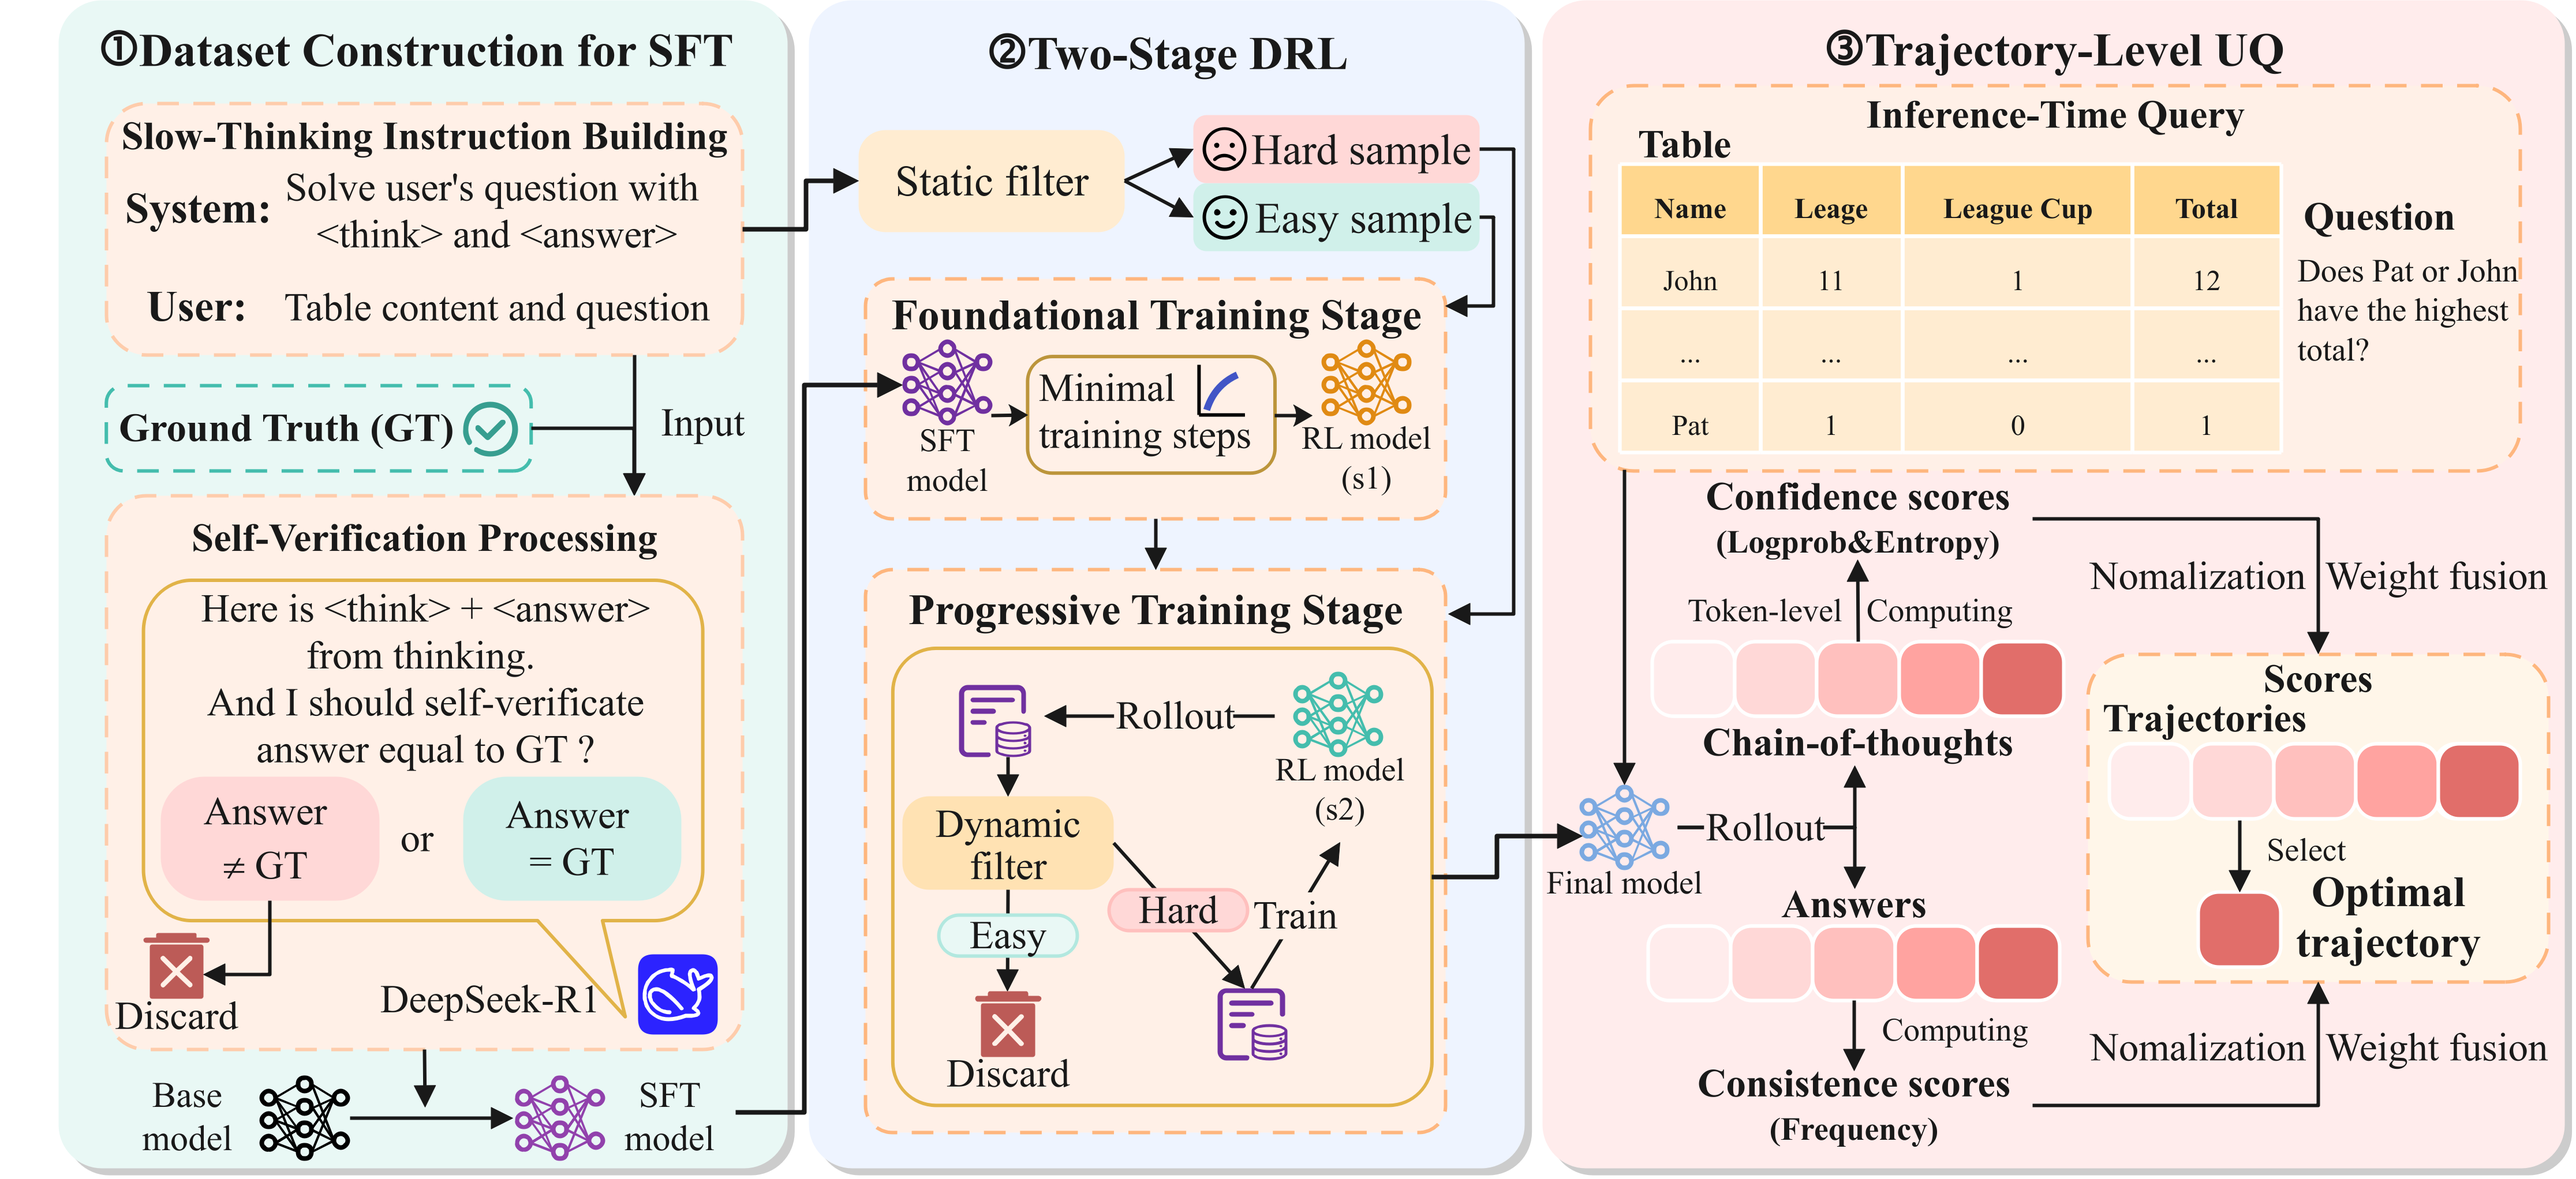
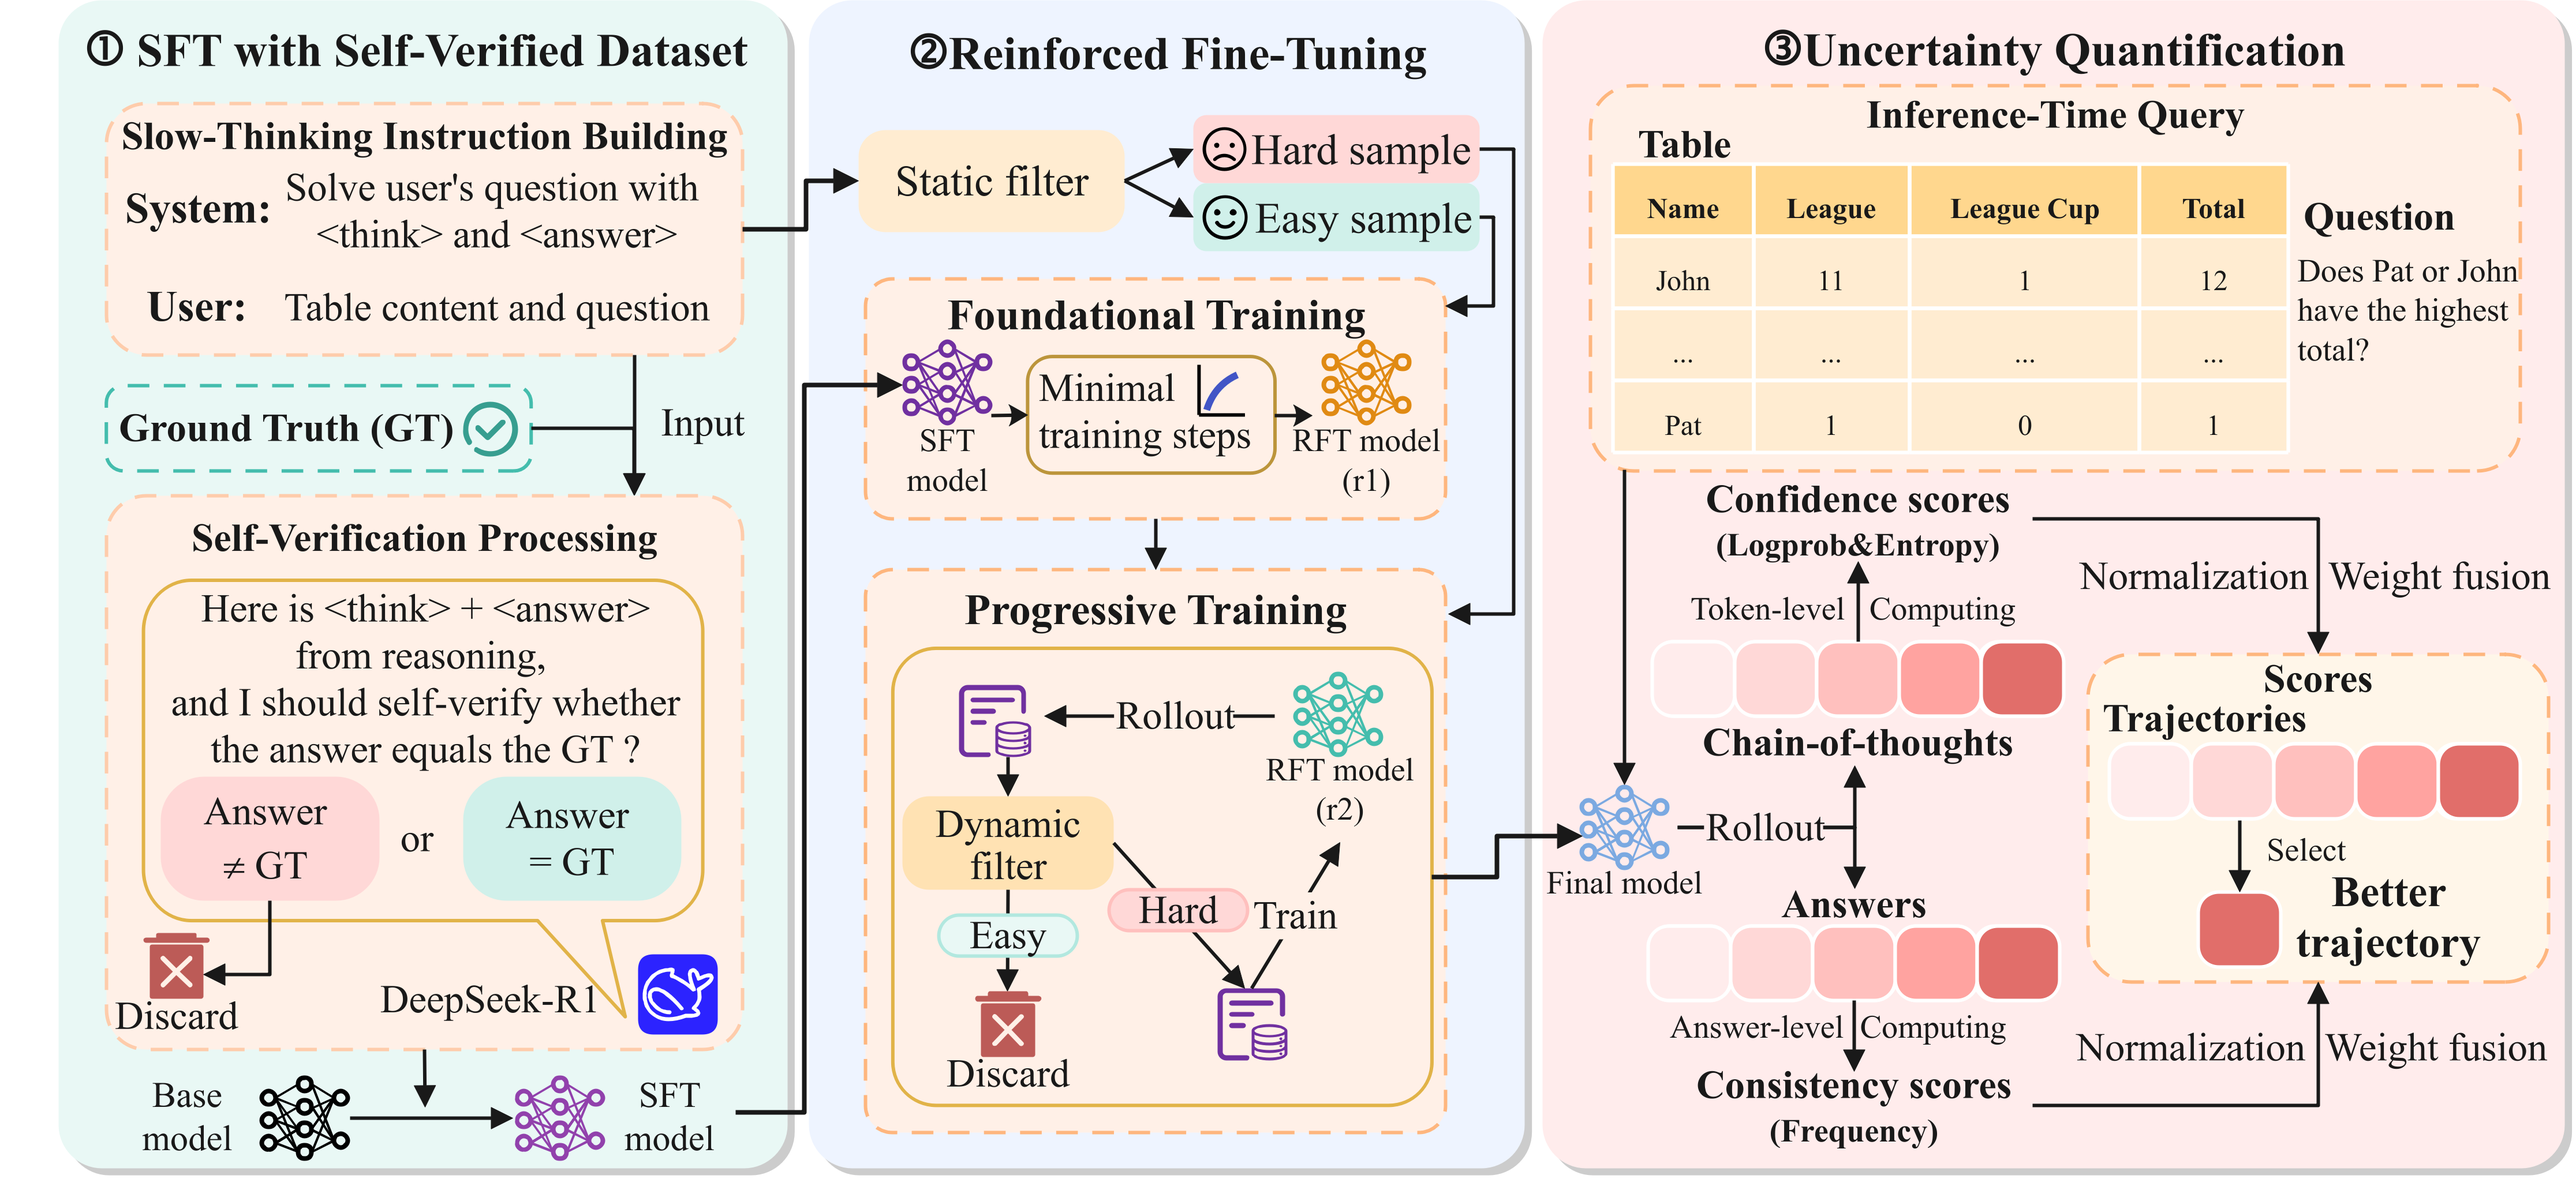
docs: add Chinese README and update project description
- Add Chinese translation of README (readme_cn.md)
- Add language toggle links between English and Chinese versions
- Update project title to official paper name
- Revise abstract and key features for clarity
- Rename training stages for consistency (Stage 0→1, Stage 1→2)
- Update citation note regarding Google Scholar title discrepancy
- Update logo and framework images

diff --git a/readme_cn.md b/readme_cn.md
@@ -1,0 +1,192 @@
+[English](readme.md) | [中文](readme_cn.md)
+
+<div align="center">
+
+<img src="STaR.png" alt="STaR Logo" width="420"/>
+
+# ⭐ STaR: Towards Effective and Stable Table Reasoning via Slow-Thinking Large Language Models
+
+[![arXiv](https://img.shields.io/badge/arXiv-2511.11233-b31b1b.svg?style=flat-square&logo=arxiv)](https://arxiv.org/abs/2511.11233)
+[![Hugging Face Datasets](https://img.shields.io/badge/🤗%20Datasets-STaR--Datasets-ff8c00?style=flat-square)](https://huggingface.co/datasets/zhjai/STaR-Datasets)
+[![License](https://img.shields.io/badge/License-MIT-green.svg?style=flat-square)](LICENSE)
+
+**一种用于有效且稳定表格推理的慢思考模型**
+
+[📄 论文](https://arxiv.org/abs/2511.11233) • [🤗 数据集](https://huggingface.co/datasets/zhjai/STaR-Datasets) • [🏠 GitHub](https://github.com/zhjai/STaR)
+
+</div>
+
+---
+
+## 📌 概述
+
+<div align="center">
+<img src="star-framework.png" alt="STaR Framework" width="90%"/>
+</div>
+
+**STaR**（Slow-Thinking Table Reasoning，慢思考表格推理）是一种新颖的慢思考模型，能够实现有效且稳定的表格推理。它通过两阶段训练框架（SFT + RFT）实现有效的多步推理，并通过轨迹级不确定性量化提高推理稳定性。
+
+### ✨ 核心特性
+
+- 🧠 **有效的多步推理**：两阶段训练框架，包含 SFT 预热和强化微调（RFT）
+- 📈 **难度感知强化学习**：渐进式处理复杂推理的强化学习机制
+- 🎯 **稳定推理**：融合 token 级置信度和答案一致性的轨迹级不确定性量化
+- 🚀 **强泛化能力**：领域内最先进性能，领域外优秀泛化表现
+
+---
+
+## 📋 摘要
+
+Table reasoning with large language models (LLMs) plays a critical role in building intelligent systems capable of understanding and analyzing tabular data. Despite recent progress, existing methods still face key limitations: their reasoning processes lacks depth and explicit multi-step reasoning, often relying solely on implicit language model understanding. In addition, their reasoning processes suffer from instability, primarily caused by model uncertainty.
+
+In this work, we propose **STaR**, a novel slow-thinking model that can achieve effective and stable table reasoning. To enable effective multi-step reasoning, we design a **two-stage training framework** consisting of supervised fine-tuning (SFT) warm-up followed by reinforced fine-tuning (RFT). Specifically, in the SFT stage, we construct a high-quality dataset through automatic self-verification. In the RFT stage, we introduce a **difficulty-aware reinforcement learning mechanism** to further enhance reasoning capabilities. Furthermore, to improve reasoning stability, we introduce **trajectory-level uncertainty quantification**, which fuses token-level confidence with answer-level consistency, enabling the selection of better reasoning trajectories. Extensive experiments demonstrate that STaR-8B achieves state-of-the-art performance on in-domain benchmarks and exhibits strong generalization to out-of-domain datasets, highlighting its potential for enhancing both effectiveness and stability in table reasoning.
+
+---
+
+## 📁 项目结构
+
+```
+STaR/
+├── 📂 data/                    # 数据集
+│   ├── STaR-sft.parquet        # SFT 训练数据
+│   ├── STaR-train-easy.parquet # 简单训练样本
+│   ├── STaR-train-hard.parquet # 困难训练样本
+│   ├── STaR-train-all.parquet  # 所有训练样本
+│   ├── STaR-eval.parquet       # 评估数据
+│   └── STaR-test.parquet       # 测试数据
+├── 📂 model/                   # 预训练模型
+├── 📂 sh/                      # 训练和评估脚本
+├── 📂 verl/                    # VERL 框架
+├── 📂 checkpoints/             # 模型检查点
+├── 📄 reward.py                # 奖励函数
+├── 📄 eval-by-trajectory.py    # 评估脚本
+└── 📄 requirements.txt         # 依赖项
+```
+
+---
+
+## 🛠 安装
+
+> **环境要求**：Python 3.10+ 和 CUDA GPU
+
+```bash
+# 1⃣ 克隆仓库
+git clone https://github.com/zhjai/STaR.git
+cd STaR
+
+# 2⃣ 安装 Python 依赖
+pip install -r requirements.txt
+
+# 3⃣ 以可编辑模式安装 verl
+cd verl
+pip install -e .
+cd ..
+```
+
+---
+
+## 📦 数据和模型
+
+### 🤗 数据集
+
+从 Hugging Face 下载数据集并放置到 `data/` 文件夹：
+
+| 数据集 | 描述 | 链接 |
+|---------|-------------|------|
+| STaR-Datasets | 完整训练和评估数据 | [![Hugging Face](https://img.shields.io/badge/🤗-Datasets-ff8c00)](https://huggingface.co/datasets/zhjai/STaR-Datasets) |
+
+### 🤖 基础模型
+
+下载基础模型并放置到 `model/` 文件夹：
+
+| 模型 | 参数量 | 链接 |
+|-------|------------|------|
+| Qwen3-0.6B | 0.6B | [![Hugging Face](https://img.shields.io/badge/🤗-Qwen3--0.6B-ff8c00)](https://huggingface.co/Qwen/Qwen3-0.6B) |
+| Qwen3-8B | 8B | [![Hugging Face](https://img.shields.io/badge/🤗-Qwen3--8B-ff8c00)](https://huggingface.co/Qwen/Qwen3-8B) |
+
+### 🏆 训练好的检查点
+
+我们训练好的模型权重可在 Hugging Face 获取：
+
+| 模型 | 参数量 | 链接 |
+|-------|------------|------|
+| STaR-0.6B | 0.6B | [![Hugging Face](https://img.shields.io/badge/🤗-STaR--0.6B-ff8c00)](https://huggingface.co/zhjai/STaR-0.6B) |
+| STaR-8B | 8B | [![Hugging Face](https://img.shields.io/badge/🤗-STaR--8B-ff8c00)](https://huggingface.co/zhjai/STaR-8B) |
+
+---
+
+## 🚀 训练
+
+训练脚本位于 `sh/` 目录。请根据需要调整路径和超参数。
+
+### 📚 阶段 1：监督微调（SFT）
+
+```bash
+# Qwen3-0.6B
+bash sh/STaR-sft-qwen3-0.6b.sh
+
+# Qwen3-8B
+bash sh/STaR-sft-qwen3-8b.sh
+```
+
+### 🎯 阶段 2：强化微调（RFT）- 基础训练
+
+```bash
+# Qwen3-0.6B
+bash sh/STaR-sft-stage1-qwen3-0.6b.sh
+
+# Qwen3-8B
+bash sh/STaR-sft-stage1-qwen3-8b.sh
+```
+
+### 🔥 阶段 2：强化微调（RFT）- 渐进训练
+
+```bash
+# Qwen3-0.6B
+bash sh/STaR-sft-stage1-stage2-qwen3-0.6b.sh
+
+# Qwen3-8B
+bash sh/STaR-sft-stage1-stage2-qwen3-8b.sh
+```
+
+---
+
+## 📊 评估
+
+### 1⃣ 生成轨迹
+
+```bash
+bash sh/STaR-eval.sh
+```
+
+### 2⃣ 计算指标
+
+```bash
+python eval-by-trajectory.py
+```
+
+---
+
+## 📖 引用
+
+如果您觉得这项工作有用，请引用我们的论文：
+
+> **注意：** 谷歌学术上的引用可能仍显示旧标题。正确标题为：*STaR: Towards Effective and Stable Table Reasoning via Slow-Thinking Large Language Models*
+
+---
+
+## 🙏 致谢
+
+- 本工作基于优秀的 [**VERL**](https://github.com/volcengine/verl) 框架
+- 基础模型来自阿里巴巴 [**Qwen**](https://github.com/QwenLM/Qwen) 团队
+- 感谢开源社区提供的工具和数据集
+
+---
+
+<div align="center">
+
+**⭐ 如果觉得有帮助，请给个 Star！⭐**
+
+为研究社区用 ❤ 打造
+
+</div>

diff --git a/readme.md b/readme.md
@@ -1,14 +1,16 @@
+[English](readme.md) | [中文](readme_cn.md)
+
 <div align="center">
 
 <img src="STaR.png" alt="STaR Logo" width="420"/>
 
-# ⭐ STaR: Slow-Thinking for Table Reasoning
+# ⭐ STaR: Towards Effective and Stable Table Reasoning via Slow-Thinking Large Language Models
 
 [![arXiv](https://img.shields.io/badge/arXiv-2511.11233-b31b1b.svg?style=flat-square&logo=arxiv)](https://arxiv.org/abs/2511.11233)
 [![Hugging Face Datasets](https://img.shields.io/badge/🤗%20Datasets-STaR--Datasets-ff8c00?style=flat-square)](https://huggingface.co/datasets/zhjai/STaR-Datasets)
 [![License](https://img.shields.io/badge/License-MIT-green.svg?style=flat-square)](LICENSE)
 
-**A Cognitive Framework for Table Reasoning with LLMs**
+**A Novel Slow-Thinking Model for Effective and Stable Table Reasoning**
 
 [📄 Paper](https://arxiv.org/abs/2511.11233) • [🤗 Datasets](https://huggingface.co/datasets/zhjai/STaR-Datasets) • [🏠 GitHub](https://github.com/zhjai/STaR)
 
@@ -22,22 +24,22 @@
 <img src="star-framework.png" alt="STaR Framework" width="90%"/>
 </div>
 
-**STaR** (Slow-Thinking for Table Reasoning) is a novel framework that equips LLMs with slow-thinking capabilities for cognitive table reasoning by explicitly modeling step-by-step thinking and uncertainty-aware inference.
+**STaR** (Slow-Thinking Table Reasoning) is a novel slow-thinking model that can achieve effective and stable table reasoning. It enables effective multi-step reasoning through a two-stage training framework (SFT + RFT) and improves reasoning stability via trajectory-level uncertainty quantification.
 
 ### ✨ Key Features
 
-- 🧠 **Cognitive Reasoning**: Mimics human-like iterative and reflective thought processes
-- 📈 **Two-Stage DRL**: Difficulty-aware reinforcement learning from simple to complex queries
-- 🎯 **Uncertainty Quantification**: Trajectory-level confidence for reliable reasoning paths
-- 🚀 **Strong Generalization**: Excellent out-of-domain performance
+- 🧠 **Effective Multi-Step Reasoning**: Two-stage training framework with SFT warm-up and reinforced fine-tuning (RFT)
+- 📈 **Difficulty-Aware RL**: Reinforcement learning mechanism that progressively handles complex reasoning
+- 🎯 **Stable Reasoning**: Trajectory-level uncertainty quantification fusing token-level confidence with answer-level consistency
+- 🚀 **Strong Generalization**: State-of-the-art in-domain performance and excellent out-of-domain generalization
 
 ---
 
 ## 📋 Abstract
 
-Table reasoning with large language models (LLMs) is a fundamental path toward building intelligent systems that can understand and analyze structured data. While recent progress has shown promising results, they still suffer from two key limitations: (i) the reasoning processes lack the depth and iterative refinement characteristic of human cognition; and (ii) the reasoning processes exhibit instability, which compromises their reliability in downstream applications. 
+Table reasoning with large language models (LLMs) plays a critical role in building intelligent systems capable of understanding and analyzing tabular data. Despite recent progress, existing methods still face key limitations: their reasoning processes lacks depth and explicit multi-step reasoning, often relying solely on implicit language model understanding. In addition, their reasoning processes suffer from instability, primarily caused by model uncertainty.
 
-In this work, we present **STaR**, a new framework achieving cognitive table reasoning, in which LLMs are equipped with slow-thinking capabilities by explicitly modeling step-by-step thinking and uncertainty-aware inference. During training, STaR employs **two-stage difficulty-aware reinforcement learning (DRL)**, progressively learning from simple to complex queries under a composite reward. During inference, STaR performs **trajectory-level uncertainty quantification** by integrating token-level confidence and answer consistency, enabling selection of more credible reasoning paths.
+In this work, we propose **STaR**, a novel slow-thinking model that can achieve effective and stable table reasoning. To enable effective multi-step reasoning, we design a **two-stage training framework** consisting of supervised fine-tuning (SFT) warm-up followed by reinforced fine-tuning (RFT). Specifically, in the SFT stage, we construct a high-quality dataset through automatic self-verification. In the RFT stage, we introduce a **difficulty-aware reinforcement learning mechanism** to further enhance reasoning capabilities. Furthermore, to improve reasoning stability, we introduce **trajectory-level uncertainty quantification**, which fuses token-level confidence with answer-level consistency, enabling the selection of better reasoning trajectories. Extensive experiments demonstrate that STaR-8B achieves state-of-the-art performance on in-domain benchmarks and exhibits strong generalization to out-of-domain datasets, highlighting its potential for enhancing both effectiveness and stability in table reasoning.
 
 ---
 
@@ -117,7 +119,7 @@ Our trained model weights are available on Hugging Face:
 
 Training scripts are located in the `sh/` directory. Adjust paths and hyperparameters as needed.
 
-### 📚 Stage 0: Supervised Fine-Tuning (SFT)
+### 📚 Stage 1: Supervised Fine-Tuning (SFT)
 
 ```bash
 # Qwen3-0.6B
@@ -127,7 +129,7 @@ bash sh/STaR-sft-qwen3-0.6b.sh
 bash sh/STaR-sft-qwen3-8b.sh
 ```
 
-### 🎯 Stage 1: GRPO (Easy Samples)
+### 🎯 Stage 2: Reinforced Fine-Tuning (RFT) - Foundational Training
 
 ```bash
 # Qwen3-0.6B
@@ -137,7 +139,7 @@ bash sh/STaR-sft-stage1-qwen3-0.6b.sh
 bash sh/STaR-sft-stage1-qwen3-8b.sh
 ```
 
-### 🔥 Stage 2: GRPO (Hard Samples)
+### 🔥 Stage 2: Reinforced Fine-Tuning (RFT) - Progressive Training
 
 ```bash
 # Qwen3-0.6B
@@ -169,14 +171,7 @@ python eval-by-trajectory.py
 
 If you find this work useful, please cite our paper:
 
-```bibtex
-@article{zhang2025star,
-  title={STaR: Towards Cognitive Table Reasoning via Slow-Thinking Large Language Models},
-  author={Zhang, Huajian and Cheng, Mingyue and Luo, Yucong and Tao, Xiaoyu},
-  journal={arXiv preprint arXiv:2511.11233},
-  year={2025}
-}
-```
+> **Note:** The citation on Google Scholar may still display the old title. The correct title is: *STaR: Towards Effective and Stable Table Reasoning via Slow-Thinking Large Language Models*
 
 ---
 
